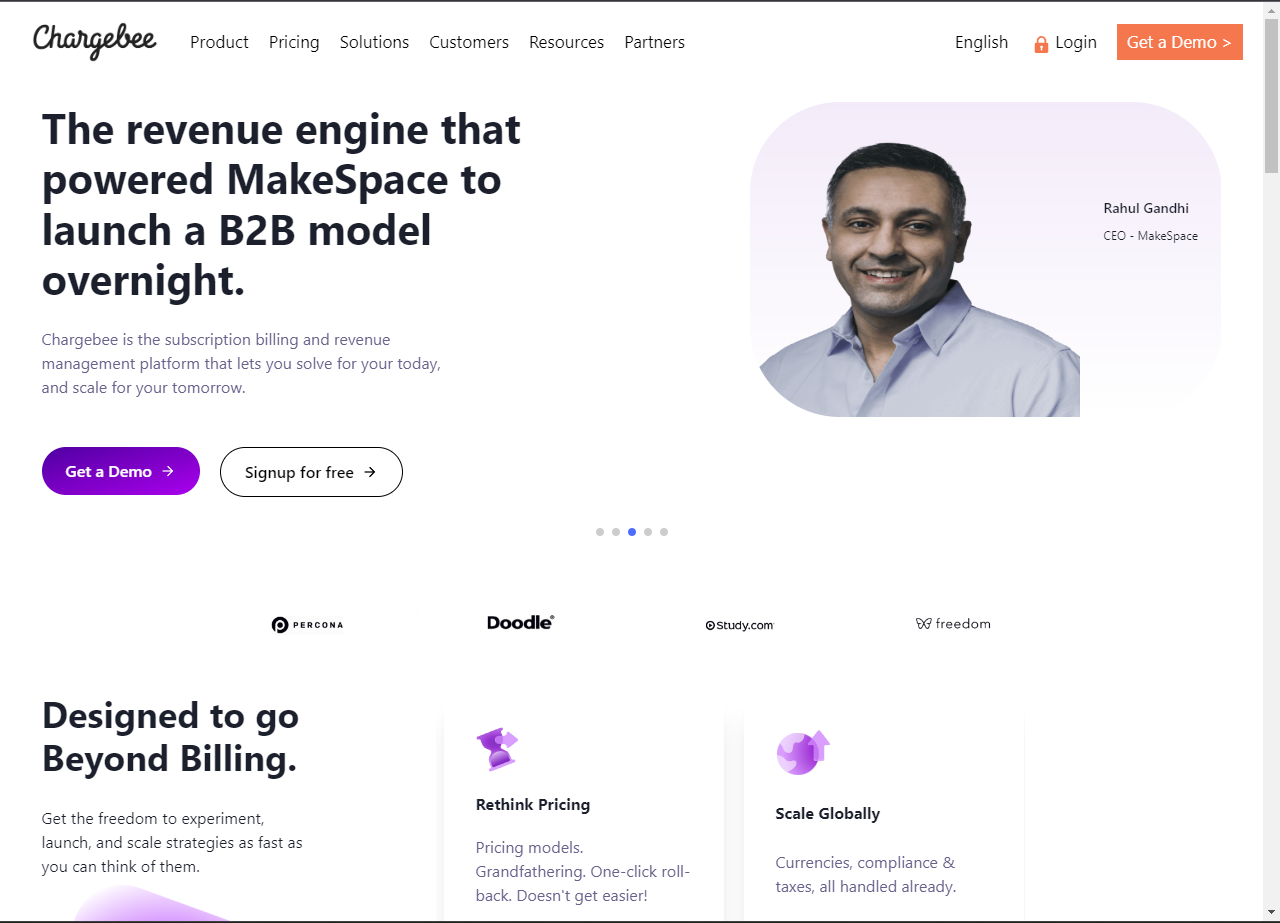
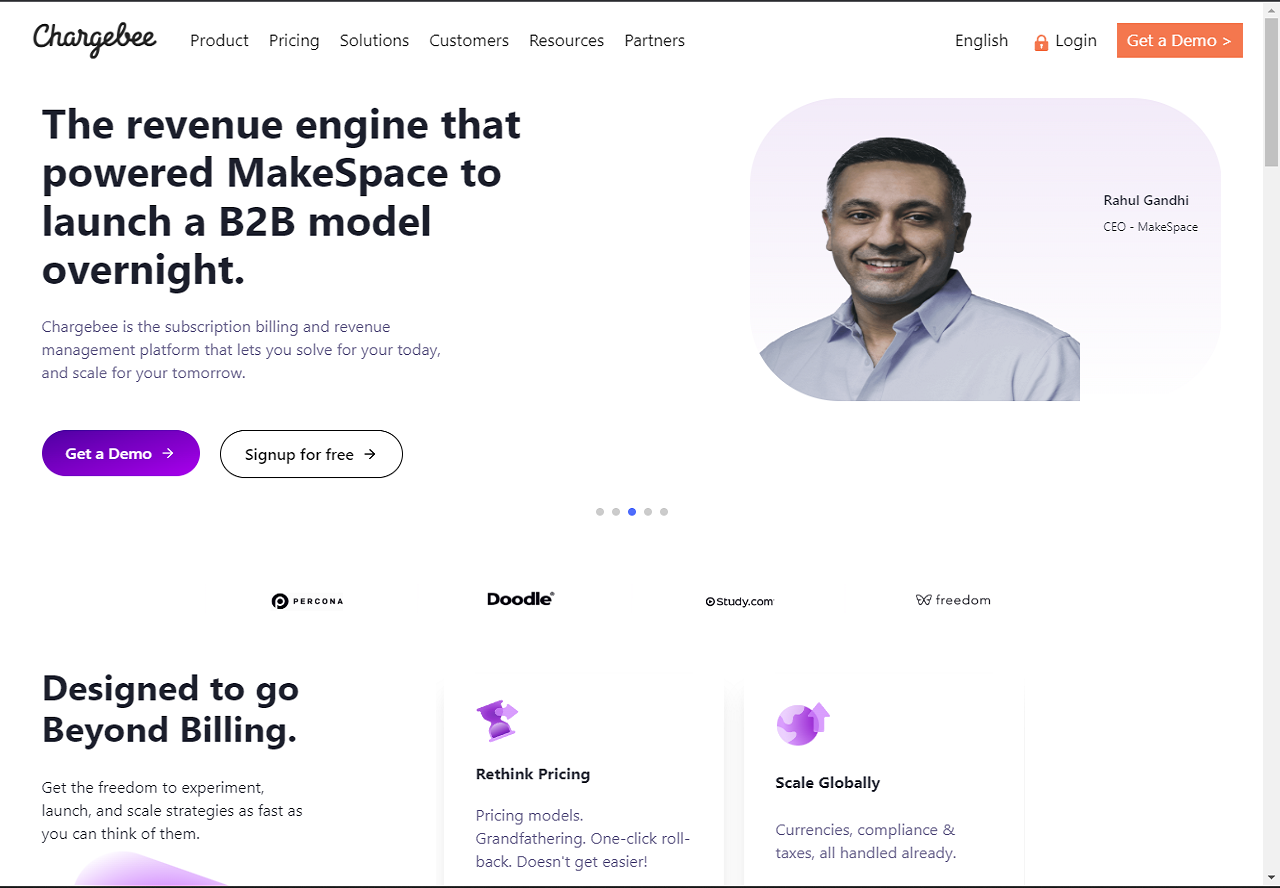
update

diff --git a/src/Components/Swiper/Swiper.jsx b/src/Components/Swiper/Swiper.jsx
@@ -41,6 +41,7 @@ const SwiperComponent = ({ data = [] }) => {
                 alignItems="start"
                 alignSelf="start"
                 w="100%"
+                
                 h="100%"
                 position="relative"
               >
@@ -54,7 +55,7 @@ const SwiperComponent = ({ data = [] }) => {
                     {item.title}
                   </Text>
                 </Box>
-                <Box w="100%" h={{ base: "35%", md: "60%", lg: "59%" }}>
+                <Box w="100%" h={{ base: "35%", md: "60%", lg: "57%" }}>
                   <Image
                     w="100%"
                     h="100%"
